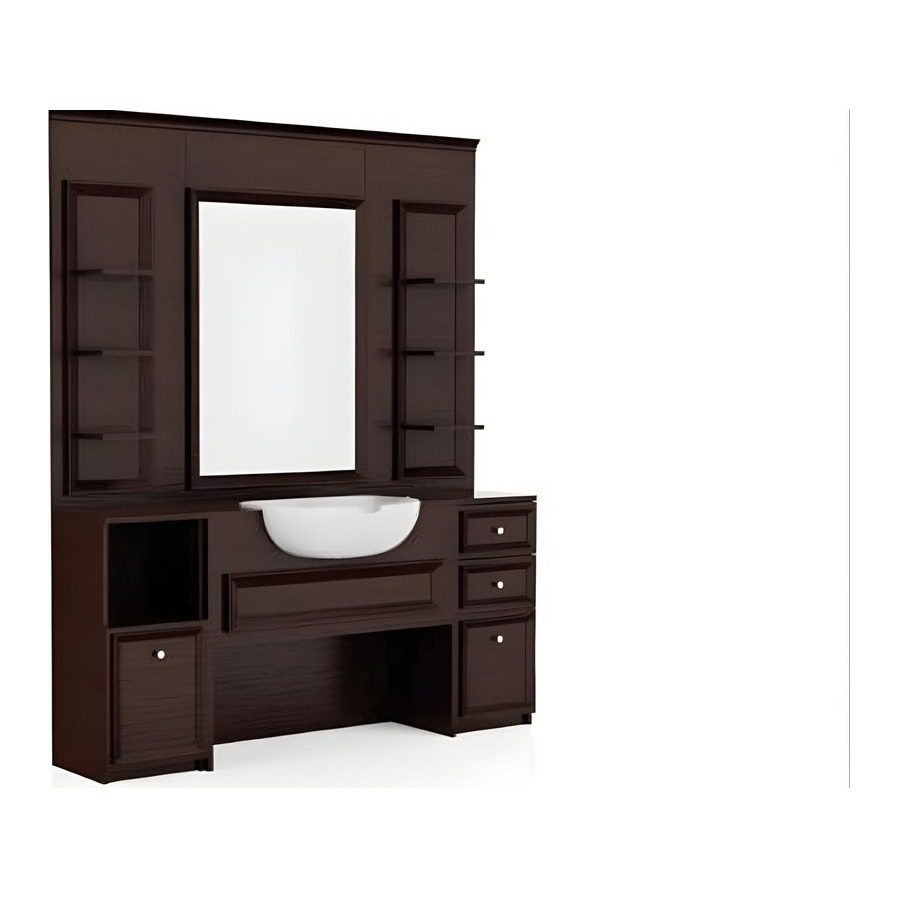
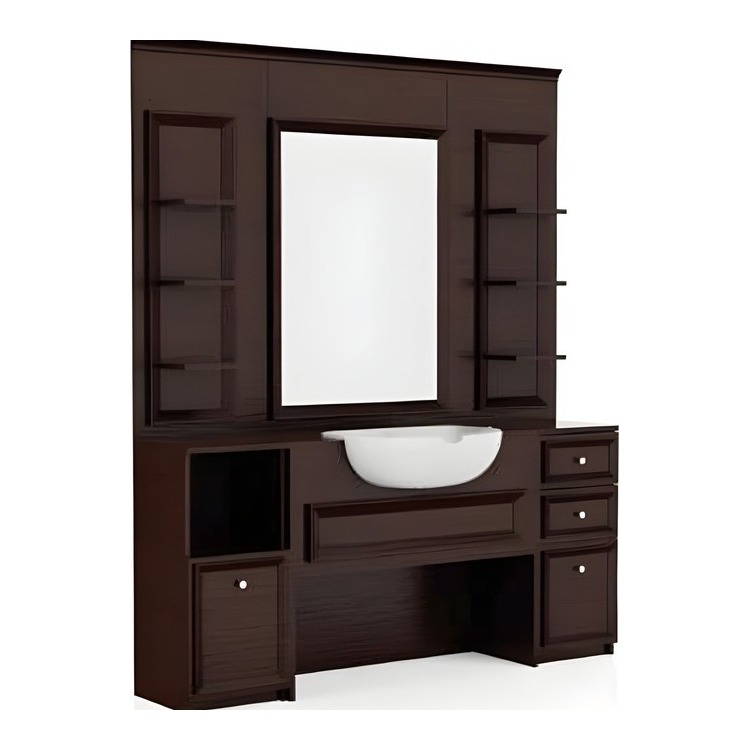
CONS3=CONS6 (duplicato catalogo): fuso in CONS3 con scheda tecnica 206x160x45, rimosso CONS6; copertina CONS5 ricentrata
Claude-Session: https://claude.ai/code/session_013AUanaDTJKgu6p2JuvkhiZ

diff --git a/index.html b/index.html
@@ -732,7 +732,7 @@ function renderBarber() {
 renderBarber();
 
 // ─── CONSOLLE / POSTAZIONI ───
-const consolle = [{"code":"FM CONS1","single":true,"versions":[{"code":"FM CONS1","price":"1.350€","img":"images-barber/c_CONS1_1.jpg","imgs":["images-barber/c_CONS1_1.jpg","images-barber/c_CONS1_2.jpg"],"specs":"Postazione barber in legno impiallacciato con cornici in legno massello e lavatesta incorporata. Molteplici vani di archiviazione, scaffali e piani di lavoro. Stile industriale con tocco retrò."}]},{"code":"FM CONS2","versions":[{"code":"FM CONS2 BLACK/WHITE","col":"","price":"1.250€","img":"images-barber/c_CONS2_bw.jpg","imgs":["images-barber/c_CONS2_bw.jpg"]},{"code":"FM CONS2 TOTAL BLACK","col":"","price":"1.250€","img":"images-barber/c_CONS2_black.jpg","imgs":["images-barber/c_CONS2_black.jpg"]},{"code":"FM CONS2 GREY","col":"","price":"1.100€","img":"images-barber/c_CONS2_grey.jpg","imgs":["images-barber/c_CONS2_grey.jpg"]}]},{"code":"FM CONS3","single":true,"versions":[{"code":"FM CONS3","price":"1.300€","img":"images-barber/c_CONS3_1.jpg","imgs":["images-barber/c_CONS3_1.jpg"]}]},{"code":"FM CONS4","single":true,"versions":[{"code":"FM CONS4","configurable":true,"price":"da 2.990€","img":"images-barber/c_CONS4_cover.jpg","toggle":{"options":[{"name":"Con lavatesta","specs":"<b>Barber Station — Predisposizione Vasca (lavatesta)</b><br>Postazione modulare componibile.<br><br><b>Altezza:</b> 200 cm · <b>Profondità:</b> 40 cm<br><b>Larghezza:</b> 170 cm (1 pz) · 300 cm (2 pz) · 430 cm (3 pz)<br><b>Colori:</b> Nero Frassino · Wengè","units":[{"label":"1 postazione","img":"images-barber/c_CONS4_conlav_1.jpg","price":"3.030€"},{"label":"2 postazioni","img":"images-barber/c_CONS4_conlav_2.jpg","price":"5.330€"},{"label":"3 postazioni","img":"images-barber/c_CONS4_conlav_3.jpg","price":"7.630€"}]},{"name":"Senza lavatesta","specs":"<b>Barber Station — Predisposizione Lavello</b><br>Postazione modulare componibile.<br><br><b>Altezza:</b> 200 cm · <b>Profondità:</b> 40 cm<br><b>Larghezza:</b> 170 cm (1 pz) · 300 cm (2 pz) · 430 cm (3 pz)<br><b>Colori:</b> Nero Frassino · Wengè","units":[{"label":"1 postazione","img":"images-barber/c_CONS4_senzalav_1.jpg","price":"2.990€"},{"label":"2 postazioni","img":"images-barber/c_CONS4_senzalav_2.jpg","price":"5.250€"},{"label":"3 postazioni","img":"images-barber/c_CONS4_senzalav_3.jpg","price":"7.510€"}]}]}}]},{"code":"FM CONS5","single":true,"versions":[{"code":"FM CONS5","configurable":true,"price":"da 4.990€","img":"images-barber/c_CONS5_cover.jpg","specs":"<b>Barber Old — Postazione con predisposizione vasca (lavatesta)</b><br>Postazione modulare componibile, finitura in legno scuro.<br><br><b>Altezza:</b> 230 cm · <b>Profondità:</b> 40 cm<br><b>Larghezza:</b> 190 cm (1 pz) · 340 cm (2 pz) · 490 cm (3 pz)<br><b>Colori:</b> Wengè · Nero Frassino","units":[{"label":"1 postazione","img":"images-barber/c_CONS5_1.jpg","price":"4.990€"},{"label":"2 postazioni","img":"images-barber/c_CONS5_2.jpg","price":"7.990€"},{"label":"3 postazioni","img":"images-barber/c_CONS5_3.jpg","price":"12.290€"}]}]},{"code":"FM CONS6","single":true,"versions":[{"code":"FM CONS6","price":"1.300€","img":"images-barber/c_CONS6_1.jpg","imgs":["images-barber/c_CONS6_1.jpg"],"specs":"Postazione retrobarba con lavatesta in ceramica, specchio centrale e applique integrate, finitura nera.<br><br><b>Altezza:</b> 206 cm · <b>Larghezza:</b> 160 cm · <b>Profondità:</b> 45 cm"}]}];
+const consolle = [{"code":"FM CONS1","single":true,"versions":[{"code":"FM CONS1","price":"1.350€","img":"images-barber/c_CONS1_1.jpg","imgs":["images-barber/c_CONS1_1.jpg","images-barber/c_CONS1_2.jpg"],"specs":"Postazione barber in legno impiallacciato con cornici in legno massello e lavatesta incorporata. Molteplici vani di archiviazione, scaffali e piani di lavoro. Stile industriale con tocco retrò."}]},{"code":"FM CONS2","versions":[{"code":"FM CONS2 BLACK/WHITE","col":"","price":"1.250€","img":"images-barber/c_CONS2_bw.jpg","imgs":["images-barber/c_CONS2_bw.jpg"]},{"code":"FM CONS2 TOTAL BLACK","col":"","price":"1.250€","img":"images-barber/c_CONS2_black.jpg","imgs":["images-barber/c_CONS2_black.jpg"]},{"code":"FM CONS2 GREY","col":"","price":"1.100€","img":"images-barber/c_CONS2_grey.jpg","imgs":["images-barber/c_CONS2_grey.jpg"]}]},{"code":"FM CONS3","single":true,"versions":[{"code":"FM CONS3","price":"1.300€","img":"images-barber/c_CONS3_1.jpg","imgs":["images-barber/c_CONS3_1.jpg"],"specs":"Postazione retrobarba con lavatesta in ceramica, specchio centrale e applique integrate, finitura nera.<br><br><b>Altezza:</b> 206 cm · <b>Larghezza:</b> 160 cm · <b>Profondità:</b> 45 cm"}]},{"code":"FM CONS4","single":true,"versions":[{"code":"FM CONS4","configurable":true,"price":"da 2.990€","img":"images-barber/c_CONS4_cover.jpg","toggle":{"options":[{"name":"Con lavatesta","specs":"<b>Barber Station — Predisposizione Vasca (lavatesta)</b><br>Postazione modulare componibile.<br><br><b>Altezza:</b> 200 cm · <b>Profondità:</b> 40 cm<br><b>Larghezza:</b> 170 cm (1 pz) · 300 cm (2 pz) · 430 cm (3 pz)<br><b>Colori:</b> Nero Frassino · Wengè","units":[{"label":"1 postazione","img":"images-barber/c_CONS4_conlav_1.jpg","price":"3.030€"},{"label":"2 postazioni","img":"images-barber/c_CONS4_conlav_2.jpg","price":"5.330€"},{"label":"3 postazioni","img":"images-barber/c_CONS4_conlav_3.jpg","price":"7.630€"}]},{"name":"Senza lavatesta","specs":"<b>Barber Station — Predisposizione Lavello</b><br>Postazione modulare componibile.<br><br><b>Altezza:</b> 200 cm · <b>Profondità:</b> 40 cm<br><b>Larghezza:</b> 170 cm (1 pz) · 300 cm (2 pz) · 430 cm (3 pz)<br><b>Colori:</b> Nero Frassino · Wengè","units":[{"label":"1 postazione","img":"images-barber/c_CONS4_senzalav_1.jpg","price":"2.990€"},{"label":"2 postazioni","img":"images-barber/c_CONS4_senzalav_2.jpg","price":"5.250€"},{"label":"3 postazioni","img":"images-barber/c_CONS4_senzalav_3.jpg","price":"7.510€"}]}]}}]},{"code":"FM CONS5","single":true,"versions":[{"code":"FM CONS5","configurable":true,"price":"da 4.990€","img":"images-barber/c_CONS5_cover.jpg","specs":"<b>Barber Old — Postazione con predisposizione vasca (lavatesta)</b><br>Postazione modulare componibile, finitura in legno scuro.<br><br><b>Altezza:</b> 230 cm · <b>Profondità:</b> 40 cm<br><b>Larghezza:</b> 190 cm (1 pz) · 340 cm (2 pz) · 490 cm (3 pz)<br><b>Colori:</b> Wengè · Nero Frassino","units":[{"label":"1 postazione","img":"images-barber/c_CONS5_1.jpg","price":"4.990€"},{"label":"2 postazioni","img":"images-barber/c_CONS5_2.jpg","price":"7.990€"},{"label":"3 postazioni","img":"images-barber/c_CONS5_3.jpg","price":"12.290€"}]}]}];
 consolle.forEach(m => m.versions.forEach(v => { lavoroIndex[v.code] = Object.assign({model:m.code}, v); }));
 function renderConsolle(){
   const el=document.getElementById('products-consolle');
